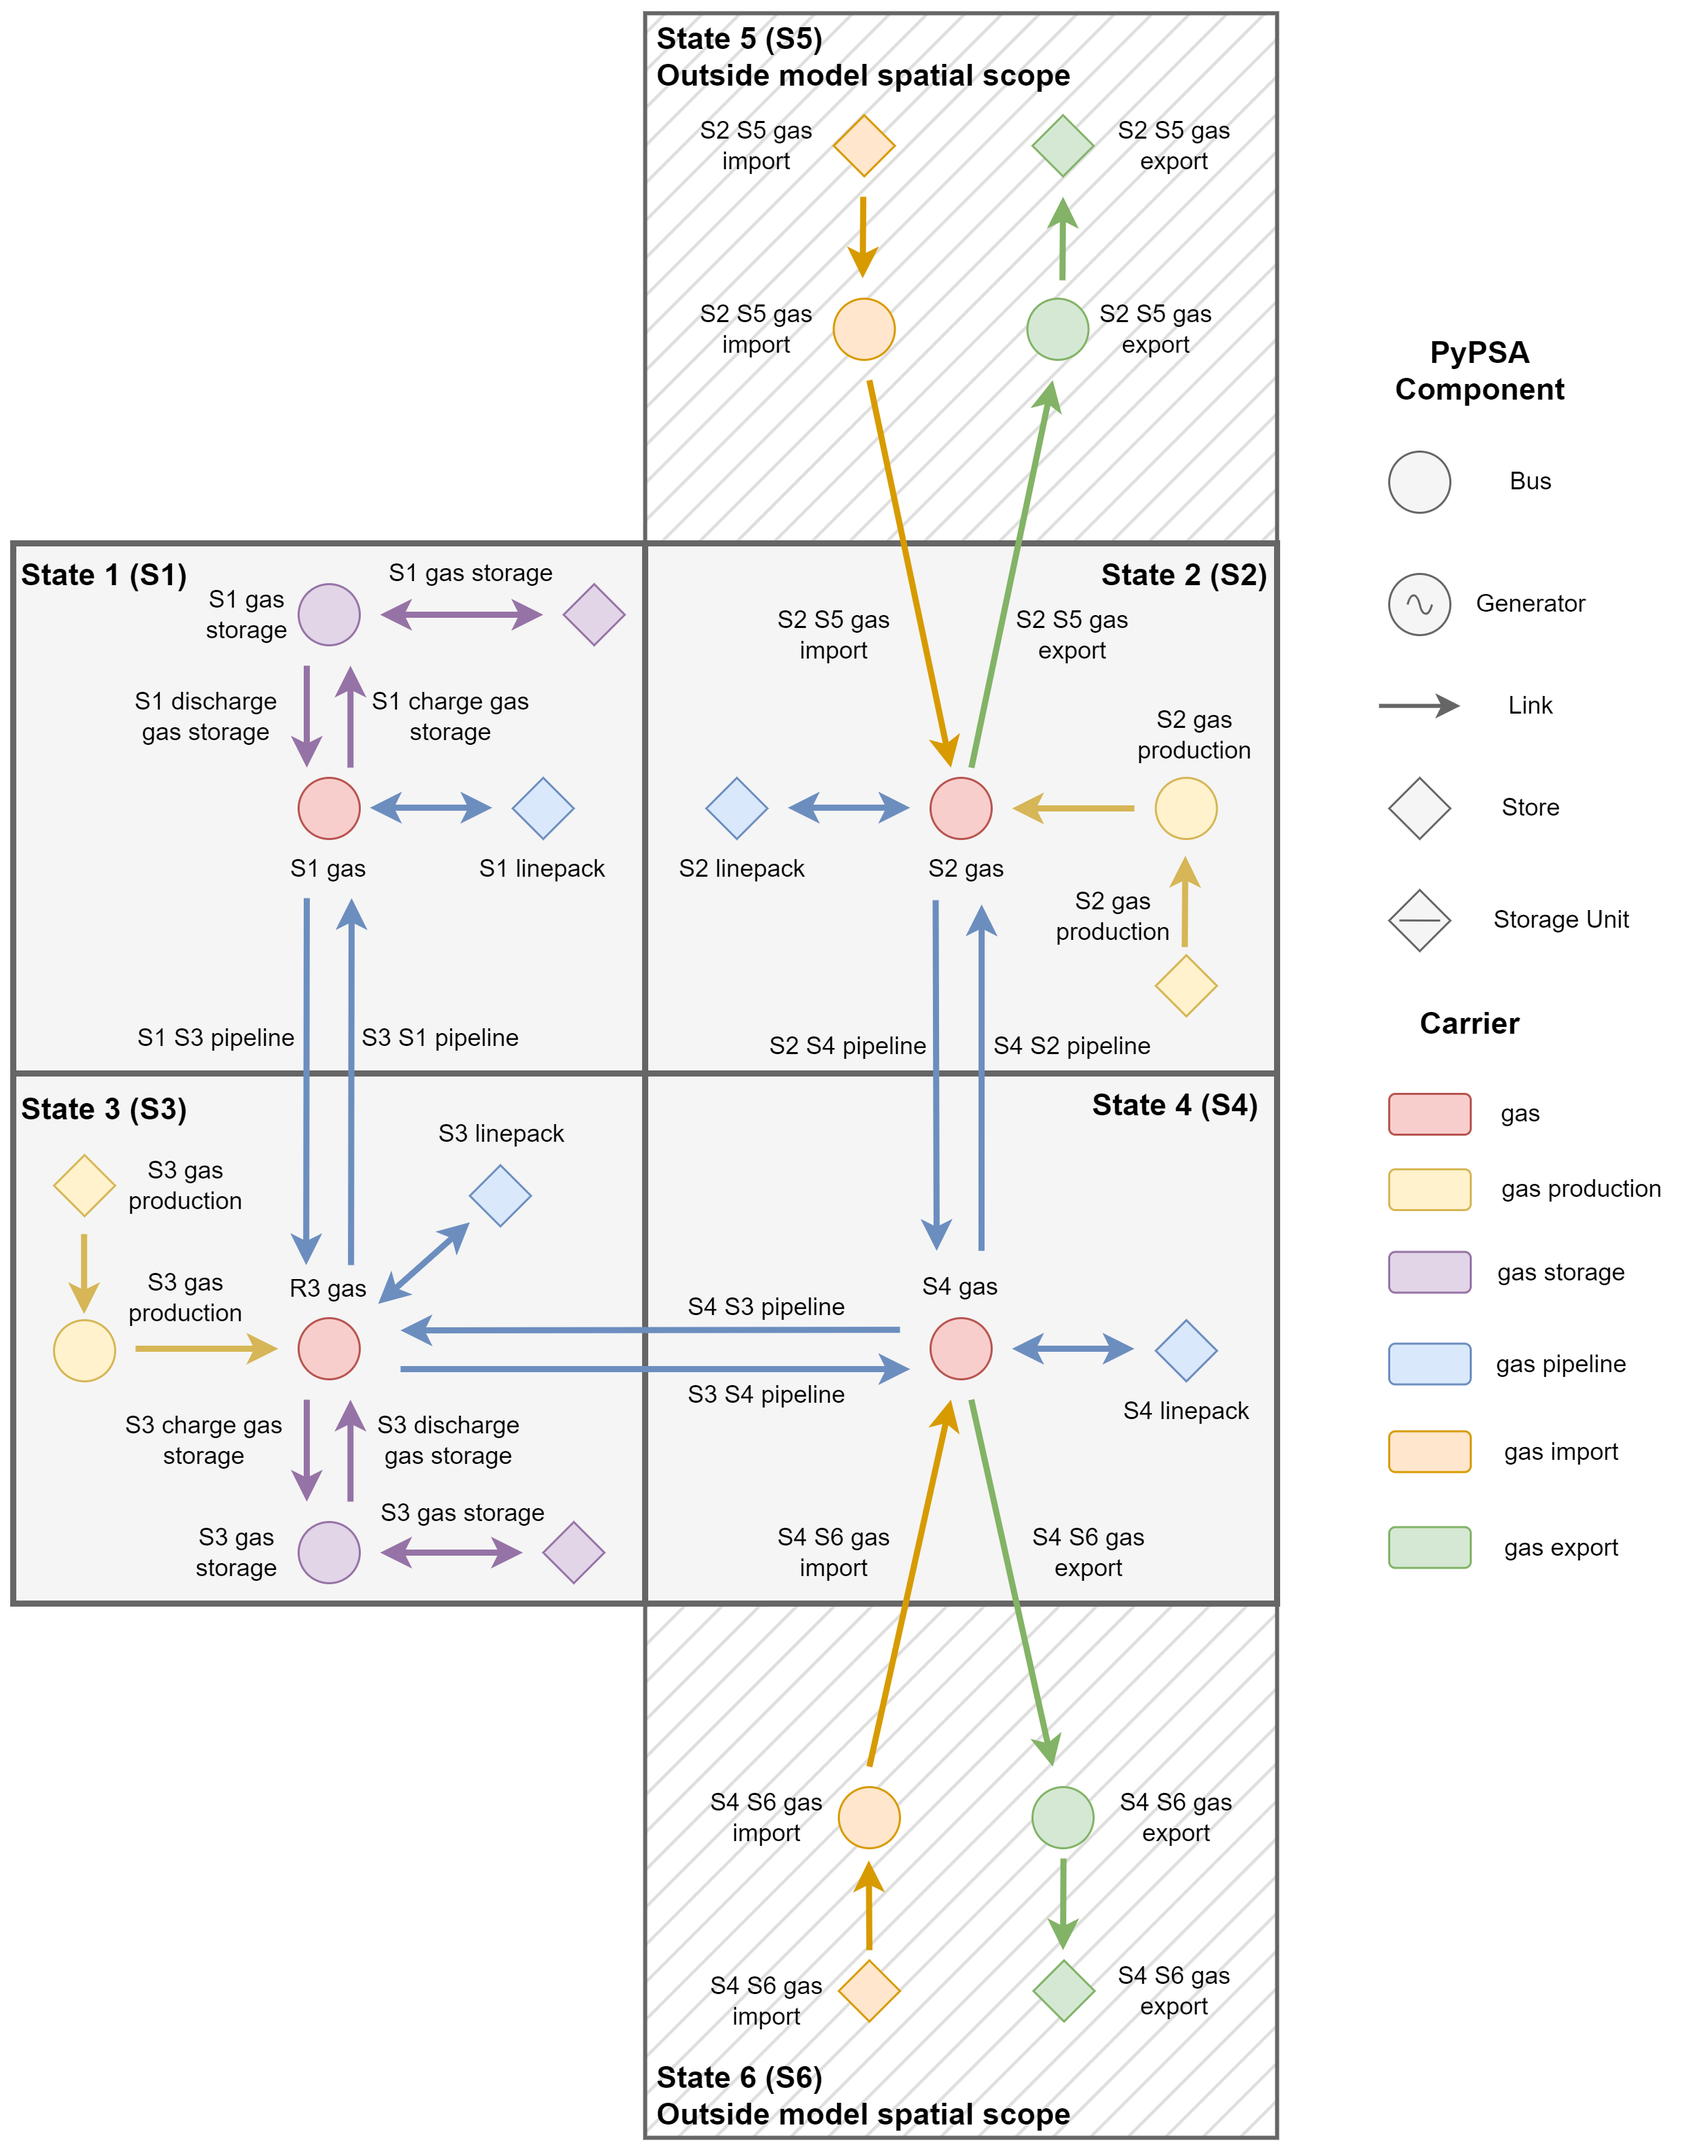
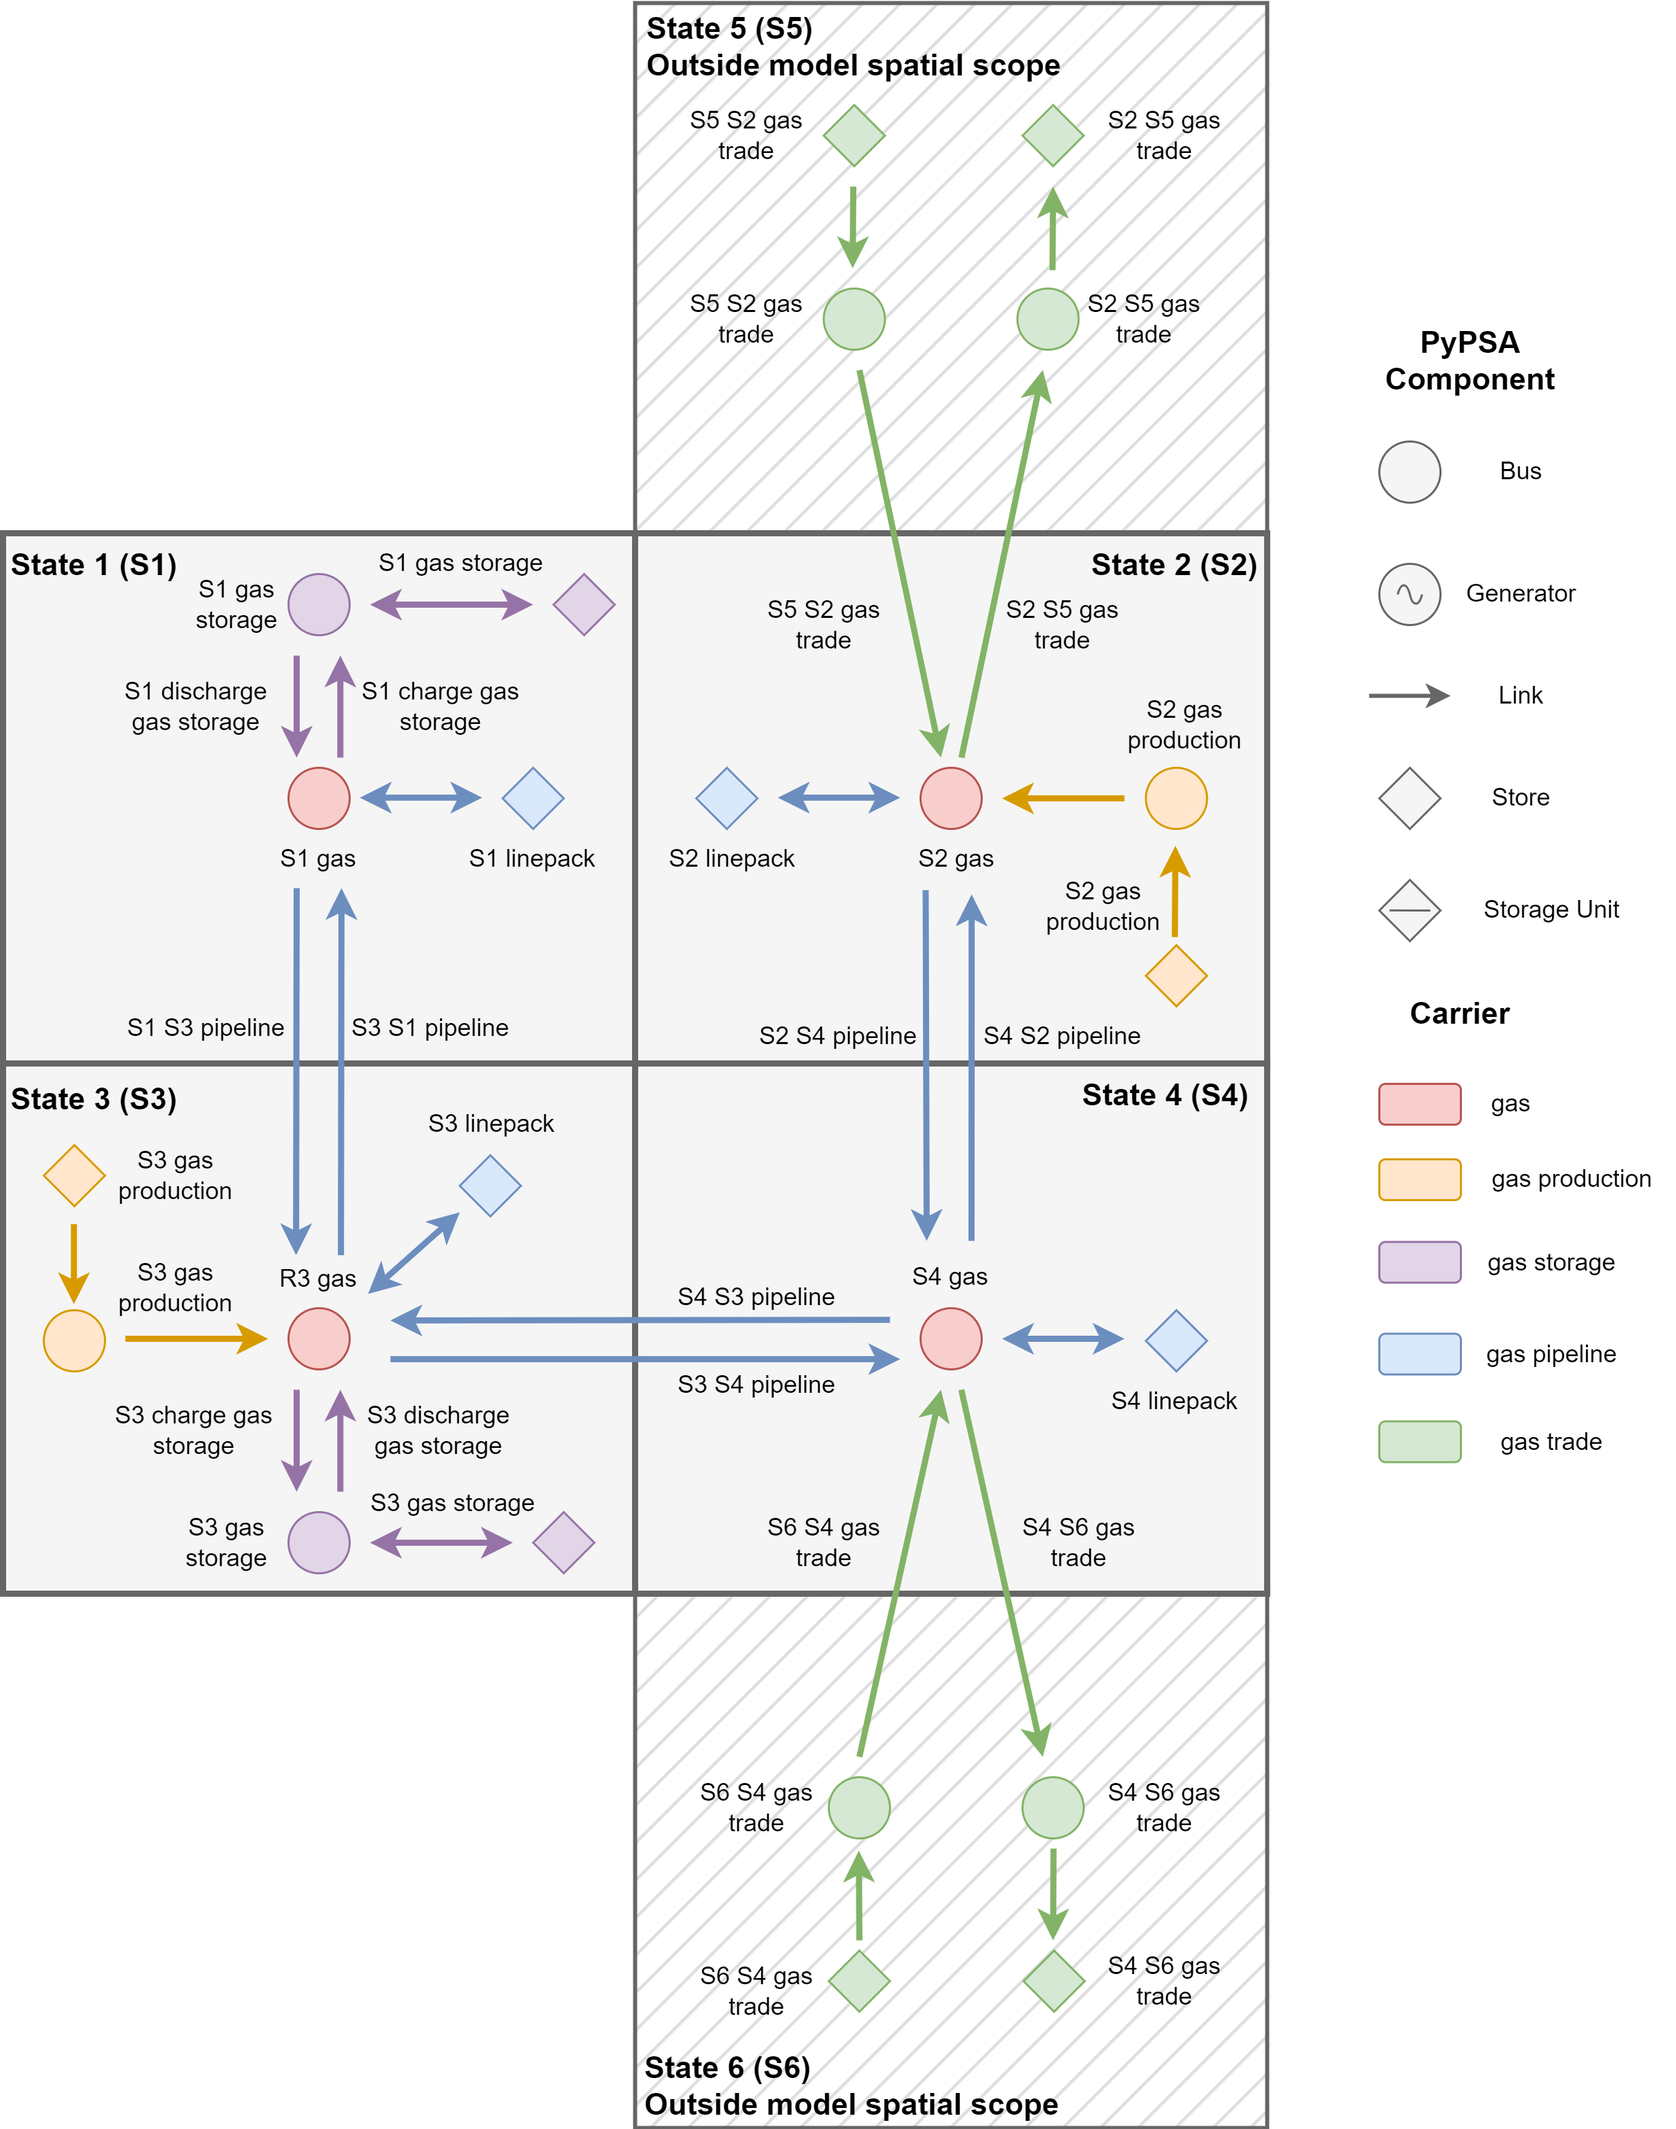
update natural gas docs

diff --git a/docs/source/data-naturalgas.md b/docs/source/data-naturalgas.md
@@ -41,7 +41,7 @@ The natural gas network includes the following components. All components attach
 .. csv-table::
    :header-rows: 1
    :widths: 22,22,33
-   :file: datatables/natural_gas.csv
+   :file: datatables/natural_gas_components.csv
 ```
 
 :::{figure-md} gas-components
@@ -63,7 +63,22 @@ Regions outside the model scope include connections to neighbouring states (for 
 | California      | Arizona           | Domestic      |
 | California      | Mexico            | International |
 
-Additionally, the user can choose to enforce boundary conditions on these connections. If applied, annual historical imports and exports to the neighbouring regions are retrieved from the EIA for the modelled weather year. Constraints are added to match the import/export values over the year.
+Additionally, the user can choose to enforce boundary conditions on these connections. If applied, annual historical imports and exports to the neighbouring regions are retrieved from the EIA for the modelled weather year. Minimum and maximum import/export constraints based on this reference value can then be specified through the following configuration file.
+
+Consider the [schematic below](gas-trade), showing how a single state is trading with a neighbouring state outside the models geographic scope. The following table shows how the user can specify import/export limits into and outof each state. Note, the constraints are applied at a state level, but each state must respect the same constraint configuration values.
+
+:::{figure-md} gas-trade
+<img src="./_static/natural_gas/gas-trade.png" width="250px">
+
+Simple Natural Gas Trading with Regions Outside Model Scope
+:::
+
+```{eval-rst}
+.. csv-table::
+   :header-rows: 1
+   :widths: 15,15,30,20,20
+   :file: datatables/natural_gas_trade.csv
+```
 
 ### Capacity Expansion
 
@@ -87,7 +102,7 @@ Listed below are the main datasources and assumptions applied to them to build t
 .. csv-table::
    :header-rows: 1
    :widths: 22,22,33
-   :file: datatables/natural_gas.csv
+   :file: datatables/natural_gas_sources.csv
 ```
 
 ## Validation
